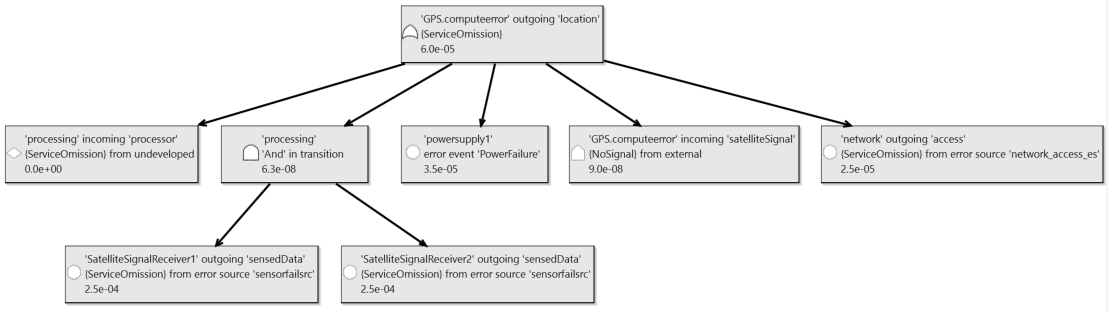
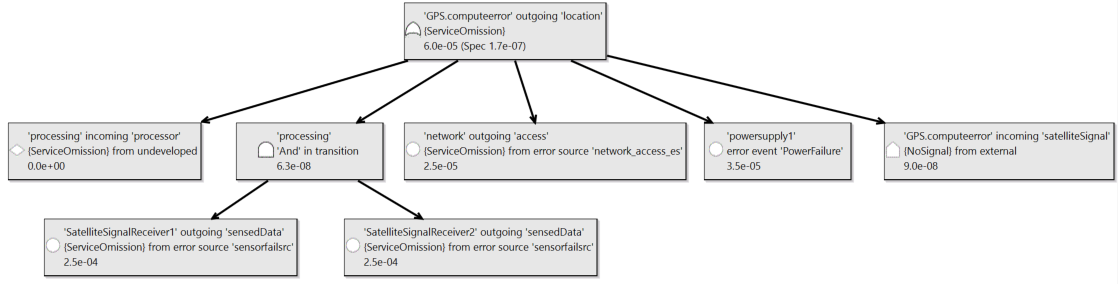
final update of figures

Changed region(s): [[0.0, 0.0, 1.0, 0.7042], [0.0307, 0.7042, 0.5523, 0.9859], [0.3375, 0.6761, 0.3682, 0.7324]]

diff --git a/org.osate.aadl2.errormodel.contrib/doc/safetyanalysisexample.md b/org.osate.aadl2.errormodel.contrib/doc/safetyanalysisexample.md
@@ -59,9 +59,9 @@ The second table reports the impact of failures external to the top-level system
 
 Users can determine all contributors to a flight system failure and assess whether the failure occurrence probabilities assigned to each subsystem and assumed by the context are sufficient to meet the maximum failure occurrence requirement for the flight system. Users can generate a fault tree by applying the Analyze Fault Tree command to the FlightSystem.Tier1 instance. Users identify ObservableFailure of error type ServiceOmission of FlightSystem as the fault tree root. The resulting fault tree is displayed graphically or in table view as chosen by the user. Both views are illustrated below for FlightSystem.Tier1.
 
-![FGS FTA](images/FlightSystem-FaultTreeGraphic.png "FGS FTA")
+![FGS FTA](images/flightsystemtier1-FT-graphic.png "FGS FTA")
 
-![FGS FTA](images/FlightSystem-FaultTreeTable.png "FGS FTA")
+![FGS FTA](images/flightsystemtier1-FT-table.png "FGS FTA")
 
 >Note that the fault tree analysis command lets users choose to generate a **fault tree**, a **fault contributor trace**, a **minimal cutset**, and a **parts fault tree**. A fault tree shows all potential failures (error events and error sources). A fault contributor traces shows all steps in the backward trace from the system failure to each of the contributors including incoming and outgoing propagations and error behavior states reached by transitions. A minimal cutset generates the smallest sets of contributors resulting in the sected system failure. The parts fault tree generates a fault tree from a parts model of a system with composite error state specification in terms of subcomponent error states.
 
@@ -122,7 +122,7 @@ The resulting fault tree results including occurrence probability are shown in t
 ![GPS 2 Sensor](images/fta-gps2sensorstatetable.png "GPS 2 Sensor")
 
 The fault occurrence probability of this redundant sensor design may be too close to the target values as we are early in the system design. Therefore, the architect of the flight system can quickly explore the an alternative flight system architecture with a dual GPS design and determine whether this alternative provides a better solution with respect to the target occurrence probability for the flight system.
-FlightSystem.Dual is a specification of such a design.
+FlightSystem.DualGPS is a specification of such a design.
 
 ![FS Dual](images/FS-Dual-Graphic.png "FS Dual")
 
